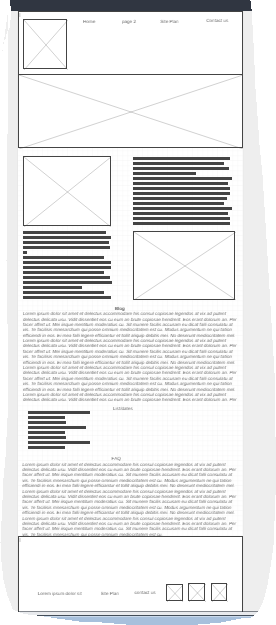
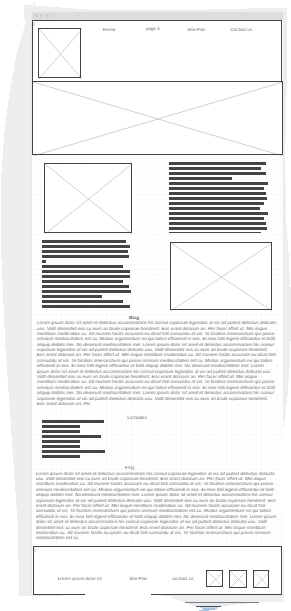
personal site content

Changed region(s): [[0.029, 0.0, 0.9855, 1.0], [0.9275, 0.4043, 0.9565, 0.4975], [0.9565, 0.9018, 0.9855, 0.964]]

diff --git a/BOM/site-plan.html b/BOM/site-plan.html
@@ -125,29 +125,44 @@
       </h2>
       <h3>Home page</h3>
       <p>
-        [Written copy for the home page here]
+        We invite all men everywhere to read the Book of Mormon, to ponder in their hearts the message it contains, and then to ask God, the Eternal Father, in the name of Christ if the book is true. Those who pursue this course and ask in faith will gain a testimony of its truth and divinity by the power of the Holy Ghost. (See Moroni 10:3-5.)
       </p>
       <p>Images for the Home page</p>
-        <img src="#" alt="image for homepage">
-        <img src="#" alt="image for homepage">
+        <img src="https://encrypted-tbn0.gstatic.com/images?q=tbn:ANd9GcQlrrZtgU3T7Ohn4_DYEDL0hL84TzIdQXlUUW_net9hfr4s1Ie16RQTgm8&s" alt="image for homepage">
+        <img src="images/Book.jpg" alt="image for homepage">
 
       </ul>
-      <h3>[Page 2]</h3>
+      <h3>Introduction</h3>
       <p>
-        [Written copy for the Page 2 here]
+        The Book of Mormon is a record of God's dealing with the ancient inhabitant of the America continent. It got it name from a prophet-historian named Mormon, who wrote and abridged together the plates of this Holy words written by different ancient prophets. These Holy words were written on goldplates in the language of these ancient inhabitant.The name Mormon means "More good, more righteousness". The history of this book link back to the Bible during the reign of king Zedekiah. It also contain the record of when the Lord confounded the tongues at the tower of Babel. This group is known as the Jaredites. After thousands of years, all were destroyed except for some called the Lamanites, and they are among the ancestors of the american Indians. During the destruction of these nations, the Book was buried by Moroni, the son of Mormon to be brought forth in our days as revealed to him by God. At the due time The Book of Mormon was revealed and delivered to Joseph Smith who was prepared by the same Moroni, then a glorified, resurrected being. Joseph Smith through the Holy Ghost translate the book to English language. The record is now published in many languages as a new and additional witness that Jesus Christ is the son of the living God and that all who will come unto Him and obey the laws and ordinances of His gospel may be saved. Concerning this record the prophet Joseph Smith said "I told the brethren that The Book of Mormon was the most correct of any book on earth and the keystone of our religion, and a man would get nearer to God by abiding by its precepts than any other book."
       </p>
       <p>Images for the Page 2</p>
-        <img src="#" alt="image for page">
-        <img src="#" alt="image for page">
+        <img src="https://encrypted-tbn0.gstatic.com/images?q=tbn:ANd9GcT8lCyeRJTcFheXkn5DxXczcsFQA583QTbMeqZsyDt34fLE-IcMkrVG3A&s" alt="image for page">
+        <img src="https://encrypted-tbn0.gstatic.com/images?q=tbn:ANd9GcTbAg6RLn0YTxfVI_e2umGyMgUF9DaVhemcktR0Kl1i2g_aDVUbnO1A0w&s" alt="image for page">
 
       </ul>
-      <h3>[Page 3]</h3>
+      <h3>FAQ</h3>
       <p>
-        [Written copy for the Page 3 here]
+        The Book of Mormon contain 15 books which give answer to life challenging questions including: 
       </p>
+      <p>
+        What is the plan of salvation?  
+      </p>
+      <p>Mosiah 4:6-8</p>
+      <p>"6 I say unto you, if ye have come to a aknowledge of the goodness of God, and his matchless power, and his wisdom, and his patience, and his long-suffering towards the children of men; and also, the atonement which has been prepared from the foundation of the world, that thereby salvation might come to him that should put his dtrust in the Lord, and should be diligent in keeping his commandments, and continue in the faith even unto the end of his life, I mean the life of the mortal body—
+
+        7 I say, that this is the man who receiveth salvation, through the atonement which was prepared from the foundation of the world for all mankind, which ever were since the fall of Adam, or who are, or who ever shall be, even unto the end of the world.
+        
+        8 And this is the means whereby salvation cometh. And there is none other salvation save this which hath been spoken of; neither are there any conditions whereby man can be saved except the conditions which I have told you."</p>
+        <p>Does it testify of Jesus Christ?</p>
+        <p>2 Nephi 25:23,26</p>
+        <p>23 For we labor diligently to write, to persuade our children, and also our brethren, to believe in Christ, and to be reconciled to God; for we know that it is by grace that we are saved, after all we can do.</p>
+        <p>26 And we talk of Christ, we rejoice in Christ, we preach of Christ, we prophesy of Christ, and we write according to our prophecies, that our children may know to what source they may look for a remission of their sins.</p>
+        <p>Contact us for a copy and get your questions answered!</p>
       <p>Images for the Page 3</p>
-        <img src="#" alt="image for page3">
-        <img src="#" alt="image for page3">
+
+        <img src="https://encrypted-tbn0.gstatic.com/images?q=tbn:ANd9GcRMg-klAcW1jbShsqnN1to6brC9BAvzGhu8Tr7-WHngA5HRaHhb8T7Lnw&s" alt="image for page3">
+        <img src="https://encrypted-tbn0.gstatic.com/images?q=tbn:ANd9GcR12oxyL5uyXHZKO6ESaD8AnyCjGwj1YK4Fp68C1JBZePfAoXfvVVvlMQ&s" alt="image for page3">
 
       </ul>
       <hr>
